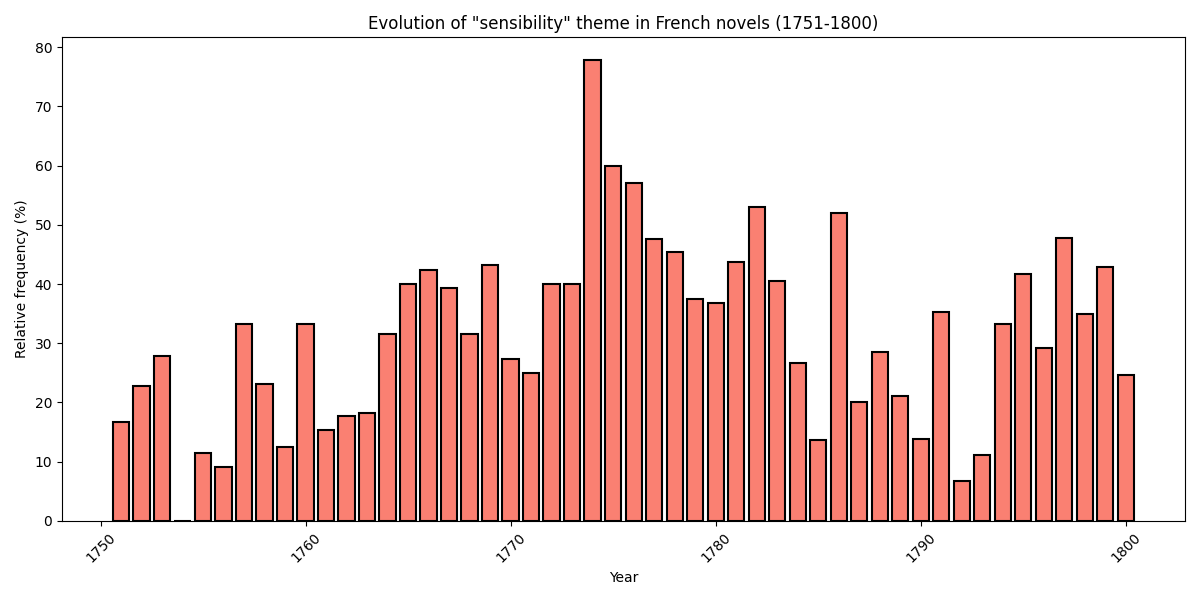
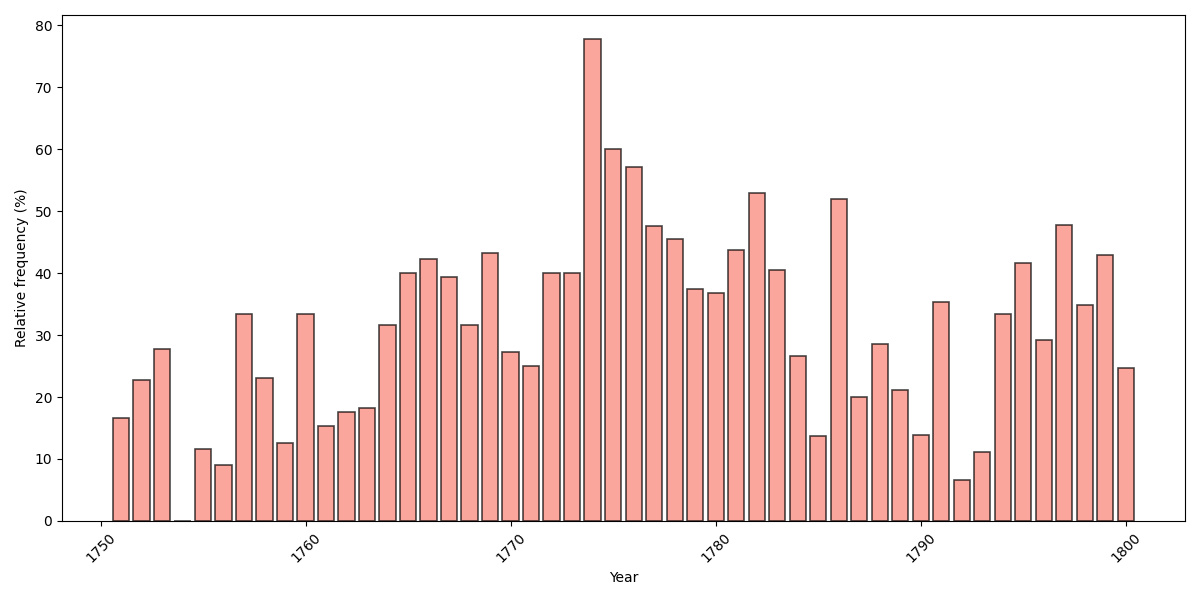
update of visualisation

diff --git a/Chapter5/wrapped_sparql_query_sensibility.py b/Chapter5/wrapped_sparql_query_sensibility.py
@@ -54,16 +54,26 @@ df = pd.DataFrame([
 ]).sort_values("date")
 
 # Visualisierung
-# Visualisierung mit Linie um die Bars
+import matplotlib.pyplot as plt
+import numpy as np
+
 plt.figure(figsize=(12,6))
 
-# Bars mit schwarzer Kontur
-plt.bar(df["date"], df["rel"], color="salmon", edgecolor="black", linewidth=1.5)
+# Bars mit transparenter Füllung, schwarzer Kontur und abgerundeten Ecken
+bars = plt.bar(
+    df["date"], 
+    df["rel"], 
+    color="salmon", 
+    edgecolor="black", 
+    linewidth=1.2, 
+    alpha=0.7, 
+    width=0.8
+)
+
 
 plt.xlabel("Year")
 plt.ylabel("Relative frequency (%)")
-plt.title('Evolution of "sensibility" theme in French novels (1751-1800)')
+#plt.title('Evolution of "sensibility" theme in French novels (1751-1800)')
 plt.xticks(rotation=45)
 plt.tight_layout()
 plt.show()
-